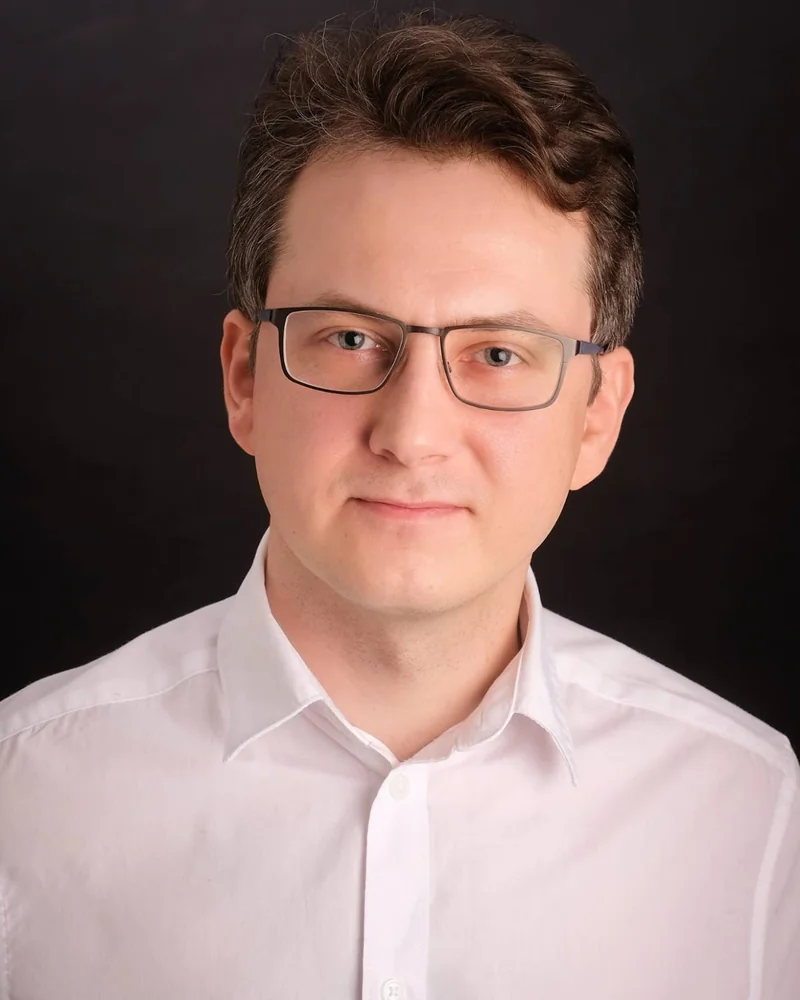
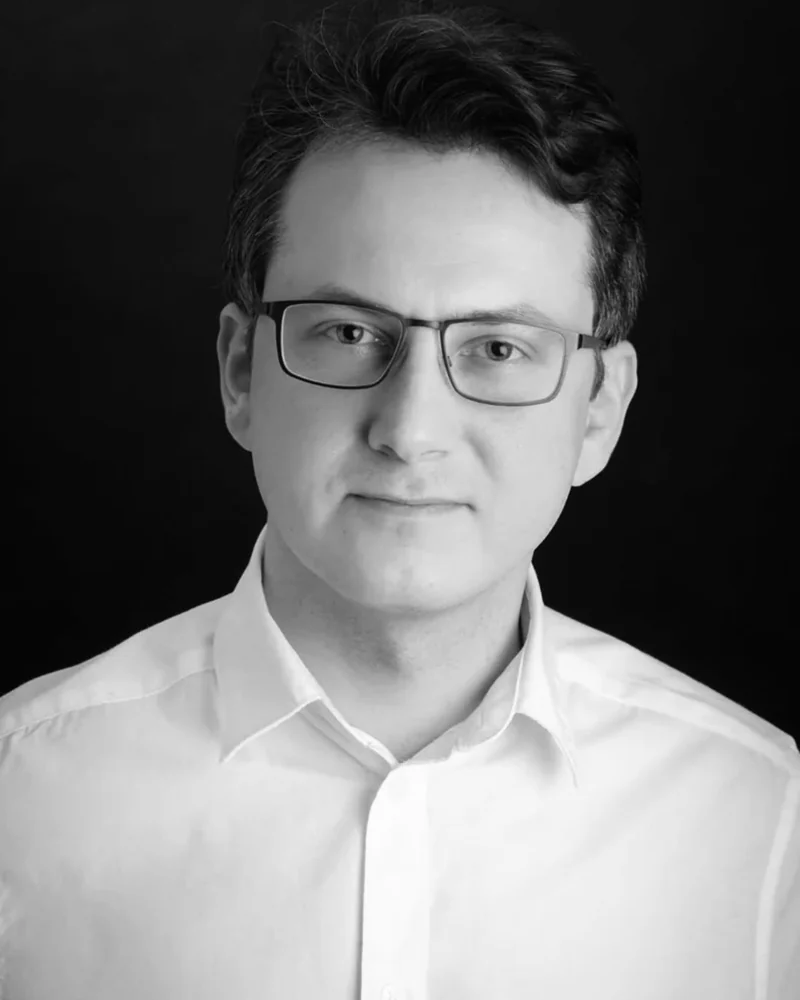
New portrait, EU function region, clearer mail error logs
- Black-and-white portrait on home and about pages (cache-busted)
- Run the contact function in fra1 instead of the US default
- Log missing SMTP variables and SMTP error codes in the Vercel logs

diff --git a/api/contact.js b/api/contact.js
@@ -112,12 +112,21 @@ module.exports = async function handler(req, res) {
   const { data, errors } = validate(body);
   if (errors.length) return reply(422, { ok: false, error: "invalid", fields: errors });
 
+  if (process.env.MAIL_TRANSPORT !== "json") {
+    const missing = ["SMTP_HOST", "SMTP_USER", "SMTP_PASS"].filter((k) => !process.env[k]);
+    if (missing.length) {
+      console.error("contact mail not configured, missing env:", missing.join(", "));
+      return reply(503, { ok: false, error: "send" });
+    }
+  }
+
   try {
     const info = await transport().sendMail(buildMail(data));
     if (process.env.MAIL_TRANSPORT === "json") console.log(info.message);
     return reply(200, { ok: true });
   } catch (err) {
-    console.error("contact mail failed:", err && err.message);
+    // e.g. EAUTH 535 = wrong user/app password, ESOCKET/ETIMEDOUT = wrong host/port
+    console.error("contact mail failed:", err && err.code, err && err.responseCode, err && err.message);
     return reply(502, { ok: false, error: "send" });
   }
 };

diff --git a/en/about.html b/en/about.html
@@ -46,7 +46,7 @@
   <img class="hero-motif" src="../assets/img/motif.webp" alt="" width="900" height="980" aria-hidden="true">
   <div class="wrap split-even" style="align-items:start">
     <figure class="figure reveal">
-      <img src="../assets/img/portrait.webp" alt="Portrait of Burak Arkan" width="800" height="1000">
+      <img src="../assets/img/portrait.webp?v=2" alt="Portrait of Burak Arkan" width="800" height="1000">
     </figure>
     <div class="reveal">
       <p class="eyebrow">About me</p>

diff --git a/de/ueber-mich.html b/de/ueber-mich.html
@@ -46,7 +46,7 @@
   <img class="hero-motif" src="../assets/img/motif.webp" alt="" width="900" height="980" aria-hidden="true">
   <div class="wrap split-even" style="align-items:start">
     <figure class="figure reveal">
-      <img src="../assets/img/portrait.webp" alt="Porträt Burak Arkan" width="800" height="1000">
+      <img src="../assets/img/portrait.webp?v=2" alt="Porträt Burak Arkan" width="800" height="1000">
     </figure>
     <div class="reveal">
       <p class="eyebrow">Über mich</p>

diff --git a/tr/hakkimda.html b/tr/hakkimda.html
@@ -46,7 +46,7 @@
   <img class="hero-motif" src="../assets/img/motif.webp" alt="" width="900" height="980" aria-hidden="true">
   <div class="wrap split-even" style="align-items:start">
     <figure class="figure reveal">
-      <img src="../assets/img/portrait.webp" alt="Burak Arkan portresi" width="800" height="1000">
+      <img src="../assets/img/portrait.webp?v=2" alt="Burak Arkan portresi" width="800" height="1000">
     </figure>
     <div class="reveal">
       <p class="eyebrow">Hakkımda</p>

diff --git a/en/index.html b/en/index.html
@@ -71,7 +71,7 @@
 <section class="section tint">
   <div class="wrap split-even">
     <figure class="figure reveal">
-      <img src="../assets/img/portrait.webp" alt="Portrait of Burak Arkan" width="800" height="1000" loading="lazy">
+      <img src="../assets/img/portrait.webp?v=2" alt="Portrait of Burak Arkan" width="800" height="1000" loading="lazy">
     </figure>
     <div class="reveal">
       <p class="eyebrow">About me</p>

diff --git a/de/index.html b/de/index.html
@@ -71,7 +71,7 @@
 <section class="section tint">
   <div class="wrap split-even">
     <figure class="figure reveal">
-      <img src="../assets/img/portrait.webp" alt="Porträt Burak Arkan" width="800" height="1000" loading="lazy">
+      <img src="../assets/img/portrait.webp?v=2" alt="Porträt Burak Arkan" width="800" height="1000" loading="lazy">
     </figure>
     <div class="reveal">
       <p class="eyebrow">Über mich</p>

diff --git a/tr/index.html b/tr/index.html
@@ -71,7 +71,7 @@
 <section class="section tint">
   <div class="wrap split-even">
     <figure class="figure reveal">
-      <img src="../assets/img/portrait.webp" alt="Burak Arkan portresi" width="800" height="1000" loading="lazy">
+      <img src="../assets/img/portrait.webp?v=2" alt="Burak Arkan portresi" width="800" height="1000" loading="lazy">
     </figure>
     <div class="reveal">
       <p class="eyebrow">Hakkımda</p>

diff --git a/_build/build.py b/_build/build.py
@@ -302,7 +302,7 @@ def page_home(L):
 <section class="section tint">
   <div class="wrap split-even">
     <figure class="figure reveal">
-      <img src="../assets/img/portrait.webp" alt="{t['portrait_alt']}" width="800" height="1000" loading="lazy">
+      <img src="../assets/img/portrait.webp?v=2" alt="{t['portrait_alt']}" width="800" height="1000" loading="lazy">
     </figure>
     <div class="reveal">
       <p class="eyebrow">{t['about_eyebrow']}</p>
@@ -345,7 +345,7 @@ def page_about(L):
   {motif()}
   <div class="wrap split-even" style="align-items:start">
     <figure class="figure reveal">
-      <img src="../assets/img/portrait.webp" alt="{t['portrait_alt']}" width="800" height="1000">
+      <img src="../assets/img/portrait.webp?v=2" alt="{t['portrait_alt']}" width="800" height="1000">
     </figure>
     <div class="reveal">
       <p class="eyebrow">{t['eyebrow']}</p>
